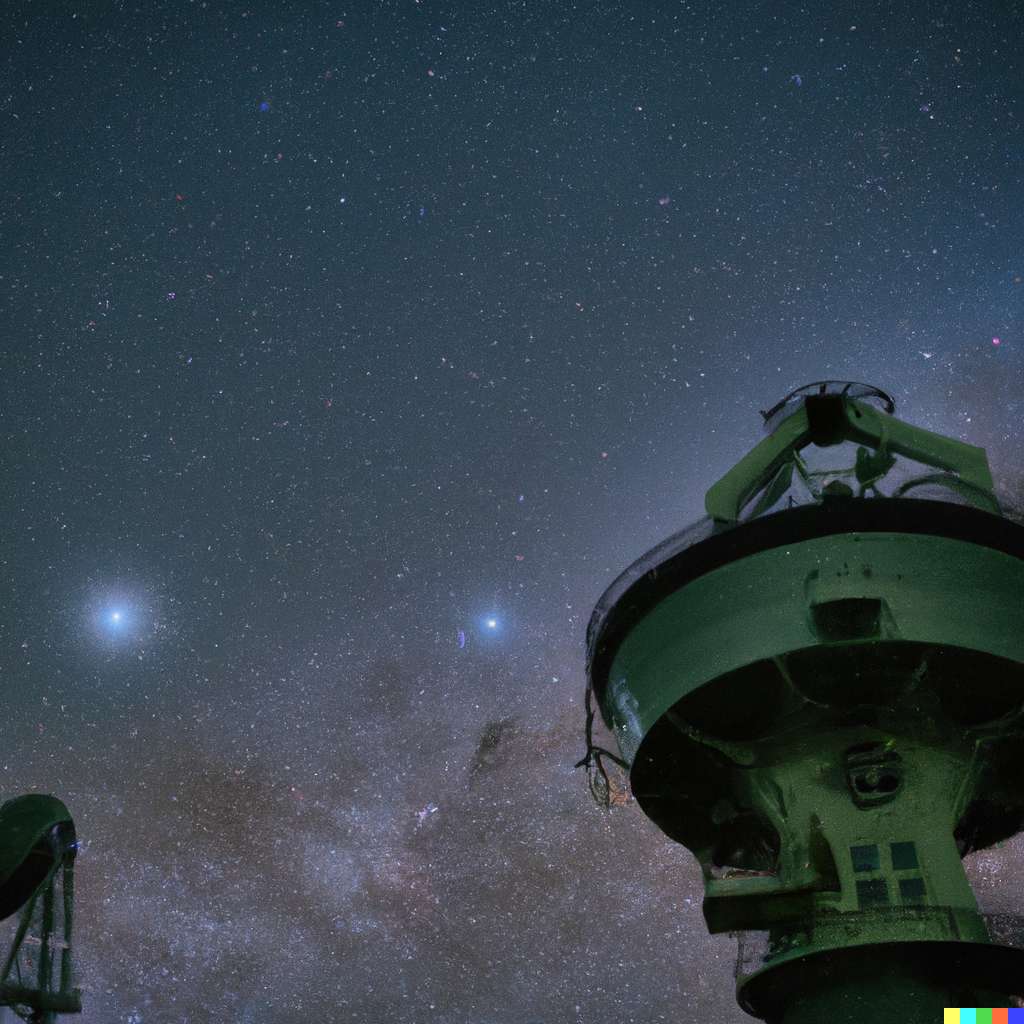
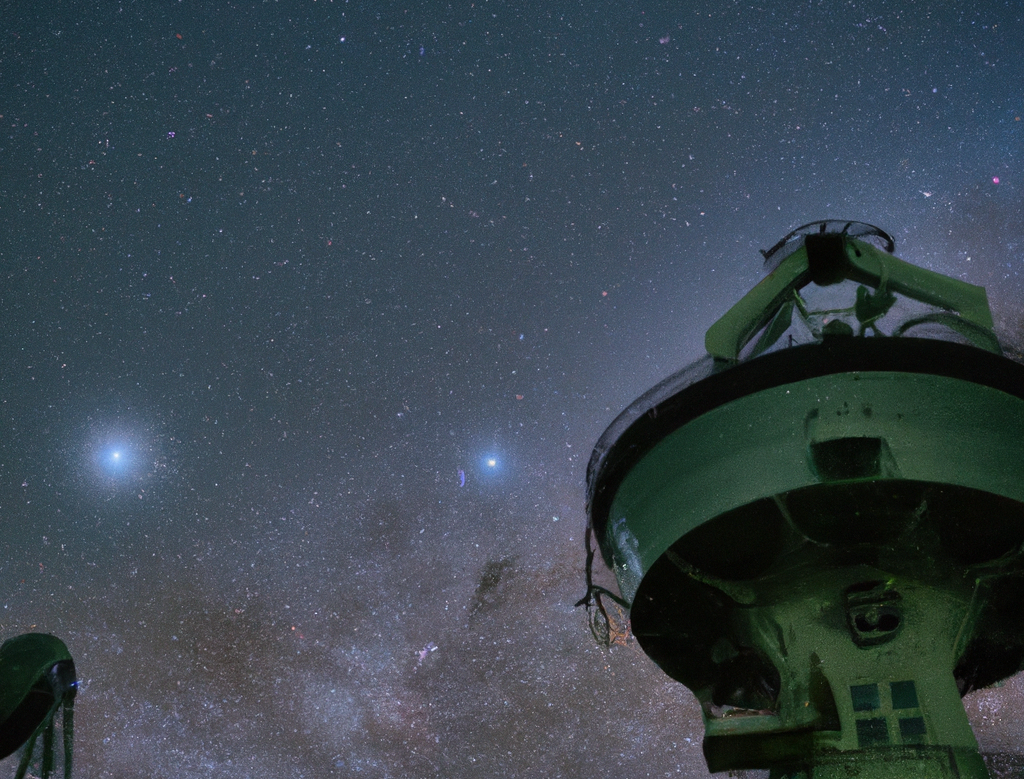
commit_5: "changed images and removed phone from contact"

diff --git a/templates/index.html b/templates/index.html
@@ -1,7 +1,7 @@
 {% include "header.html" %}
 
   <!-- Page Header -->
-  <header class="masthead" style="background-image: url({{ url_for('static', filename='img/deep_field_1.png')}}">
+  <header class="masthead" style="background-image: url({{ url_for('static', filename='img/bestfoot-home.jpg')}}">
     <div class="overlay"></div>
     <div class="container">
       <div class="row">

diff --git a/templates/about.html b/templates/about.html
@@ -1,7 +1,7 @@
 {% include "header.html" %}
 
   <!-- Page Header -->
-  <header class="masthead" style="background-image: url({{ url_for('static', filename='img/motherboard.png')}}); ">
+  <header class="masthead" style="background-image: url({{ url_for('static', filename='img/about.png')}}); ">
     <div class="overlay"></div>
     <div class="container">
       <div class="row">

diff --git a/templates/login.html b/templates/login.html
@@ -6,7 +6,7 @@
 
 
   <!-- Page Header -->
-  <header class="masthead" style="background-image: url({{ url_for('static', filename='img/fractal_universe.png')}})">
+  <header class="masthead" style="background-image: url({{ url_for('static', filename='img/particle_phys.png')}})">
     <div class="overlay"></div>
     <div class="container">
       <div class="row">

diff --git a/templates/register.html b/templates/register.html
@@ -6,7 +6,7 @@
 
 
   <!-- Page Header -->
-  <header class="masthead" style="background-image: url('{{ url_for('static', filename='img/multiverse.png')}}')">
+  <header class="masthead" style="background-image: url('{{ url_for('static', filename='img/motherboard.png')}}')">
     <div class="overlay"></div>
     <div class="container">
       <div class="row">

diff --git a/forms.py b/forms.py
@@ -30,6 +30,5 @@ class CommentForm(FlaskForm):
 class ContactForm(FlaskForm):
     name = StringField("Name", validators=[DataRequired()])
     email = StringField("Email", validators=[DataRequired(), Email()])
-    phone = StringField("Phone Number", validators=[DataRequired()])
     message = CKEditorField("Message", validators=[DataRequired()])
     submit = SubmitField("Send")
